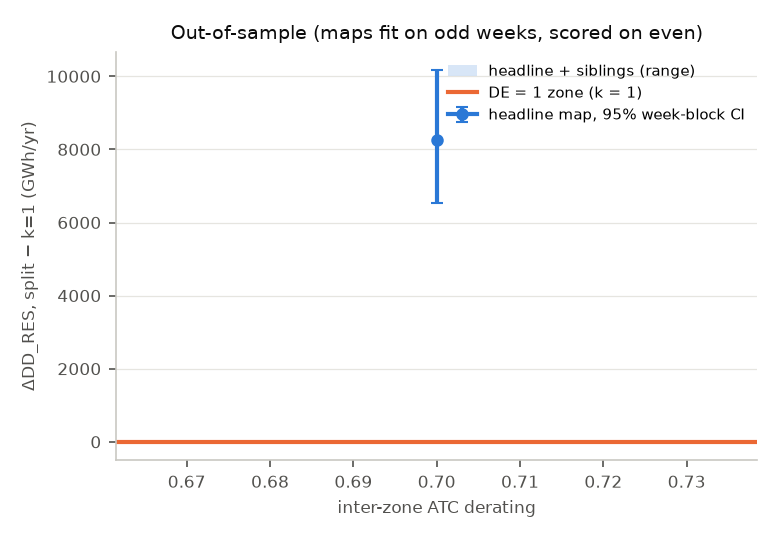
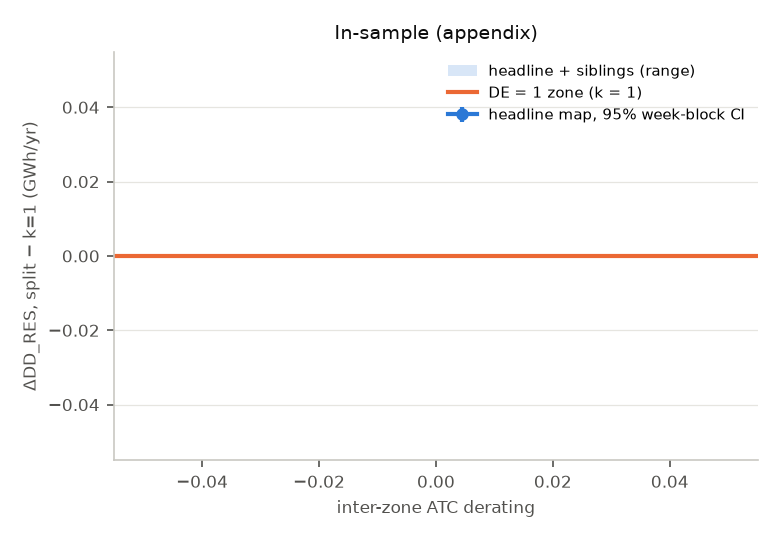
Validate scan: alpha x derating complete (200 representative hours)
Splitting DE reduces dispatch down only at derating 0.2 with alpha 2
(-1.4 TWh/yr) or 5 (-1.2), and for the alpha = 10 microzone map at 0.5
and 0.7. Everywhere else it increases DD by 0.4 to 8.5 TWh/yr.
Exploratory: in-sample maps, no bootstrap, one hour excluded at 0.5.

Claude-Session: https://claude.ai/code/session_01Xq5TRT6MZ78NDn6YnSkUQb

diff --git a/bidding_zones/reports/validate_rep200.md b/bidding_zones/reports/validate_rep200.md
@@ -5,7 +5,7 @@ Generated by `python -m bzgen.validate.run` on **200 representative hours (`rep2
 > ## Fallbacks and flags
 >
 > - **Development subsample** (200 k-means hours, weighted). The week-block bootstrap is not meaningful on weighted representative hours.
-> - **Stage A only**: no redispatch, so no dispatch-down result.
+> - **Net positions are soft, not fixed (quick-result fix; the brief asked for hard equalities and no relaxation).** With hard equalities most hours were LP-infeasible: the zonal market schedules exchanges the meshed grid cannot deliver even with load shedding. Deviation from a zone's market net position costs €1000/MWh (above every generator cost, below load shedding), so net positions hold wherever redispatch can deliver them. The undeliverable volume is reported (`np_slack_*`, `np_undeliverable_hours*`) and is itself a result: it measures how far the zonal market's exchanges exceed what the grid can carry.
 > - **Zone polygons are not an ENTSO-E publication.** No authoritative bidding-zone polygon set was reachable (transparency.entsoe.eu and entsoe.eu blocked by the session's egress policy). SE1–4, NO1–5, DK1–2 and six Italian zones come from Electricity Maps' curated open geometry (`geo/world.geojson`, commit `809539d5c76d`), hash in `data/PROVENANCE.md`.
 > - **Italy has 6 zones, not the 7 in force since 2021**: CALA (Calabria) is not in the geometry and sits inside IT-SUD, as in the brief.
 > - **Sibling tolerance widened** to 0.01 (from `sweep.degeneracy_rel_tol` = 0.001, at which DE has no near-degenerate restart). Siblings are re-run restarts (fixed crc32 seeds; the sweep's `hash()` seeds are not reproducible). Fewer than 3 siblings are reported as found, not padded.
@@ -25,20 +25,23 @@ No dispatch-down result in this run.
 
 1. **Zones.** DE-LU from the map under test (k = 1: one zone). SE, NO, DK, IT by real bidding zone (point-in-polygon; buses outside every polygon of their own country take the nearest one). Every other country is one zone.
 2. **Stage A — market.** Buses collapsed to zones. Generators and loads keep their identity. Inter-zone AC cuts become one Link per zone pair (`p_nom = derating · Σ s_nom · s_max_pu`, s_max_pu = 0.7). HVDC is kept as it is, and intra-zone lines are deleted. No KVL.
-3. **Stage B — redispatch.** The full nodal network with KVL. Each unit gets an up part (`mc + markup`) and a down part (`−mc + markup` per MWh backed down). The market schedule is a fixed injection. One equality per zone and hour holds the net position (Σ up = Σ down). Load shedding is available at €3000/MWh. No relaxation and no counter-trading.
+3. **Stage B — redispatch.** The full nodal network with KVL. Each unit gets an up part (`mc + markup`) and a down part (`−mc + markup` per MWh backed down). The market schedule is a fixed injection. One equality per zone and hour holds the net position (Σ up = Σ down). Net positions are soft in this run (flag above). Load shedding is available at €3000/MWh. No relaxation and no counter-trading.
 4. **Metrics** (DE-LU incl. offshore): DD_RES = market spill[RES] + redispatch down[RES]; DD_RES_TH adds thermal down-regulation. Attribution: market spill over binding zonal links (stage-A duals), redispatch down over binding nodal branches touching DE (stage-B duals), weighted by |μ| · capacity. Cost gap `(C_market + C_redispatch − C_nodal) / C_nodal` (physical costs, markup excluded).
 5. **Scoring.** Primary: maps refit on odd ISO weeks (edge statistics from `prices.parquet`, same anneal), with stages A and B scored on even weeks only. k = 1 needs no refit. Appendix: full-year maps scored on the full year. Paired by hour. The bootstrap resamples by ISO week (1000 resamples, 95%).
 6. **Same inputs as the benchmark**: the same snapshots, the same seeded cost noise (`anneal.seed`, U[0.001, 0.01) €/MWh) and the same worker/block parallelism. The nodal reference was re-solved; its prices differ from `data/solved/prices.parquet` by at most 2.44e-04 €/MWh.
 
 ## Maps under test
 
-| map         | role     | fit      |   energy | restart   |
-|:------------|:---------|:---------|---------:|:----------|
-| k1          | k1       | none     |  nan     |           |
-| is_headline | headline | insample | -759.226 |           |
-| is_sib1     | sibling  | insample | -757.577 | 1         |
-| is_sib2     | sibling  | insample | -754.665 | 2         |
-| is_sib3     | sibling  | insample | -752.879 | 4         |
+| map                      | role   | fit      |   energy | restart   |
+|:-------------------------|:-------|:---------|---------:|:----------|
+| k1                       | k1     | none     |      nan |           |
+| sw_a0.5_lc0.1_lb0.5_dk+0 | scan   | insample |      nan |           |
+| sw_a1_lc0.1_lb0.5_dk+0   | scan   | insample |      nan |           |
+| sw_a2_lc0.1_lb0.5_dk+0   | scan   | insample |      nan |           |
+| sw_a5_lc0.1_lb0.5_dk+0   | scan   | insample |      nan |           |
+| sw_a10_lc0.1_lb0.5_dk+0  | scan   | insample |      nan |           |
+
+ARI between the out-of-sample headline and the in-sample headline: 0.27.
 
 In-sample restarts (`results/validate/maps/is_restarts.csv`):
 
@@ -57,6 +60,22 @@ In-sample restarts (`results/validate/maps/is_restarts.csv`):
 |         5 | -733.581 |            0.0338 |            0.5195 | True         | False        | True       | False     |
 |         0 | -729.048 |            0.0397 |            0.0854 | True         | False        | True       | False     |
 
+Out-of-sample restarts (`results/validate/maps/oos_restarts.csv`):
+
+|   restart |   energy |   rel_gap_to_best |   ari_vs_headline | contiguous   | within_tol   | distinct   | sibling   |
+|----------:|---------:|------------------:|------------------:|:-------------|:-------------|:-----------|:----------|
+|         2 | -757.544 |            0.0005 |            0.4347 | True         | True         | True       | True      |
+|         5 | -755.918 |            0.0026 |            0.4973 | True         | True         | True       | True      |
+|         6 | -755.203 |            0.0036 |            0.2502 | True         | True         | True       | True      |
+|         8 | -750.086 |            0.0103 |            0.211  | True         | False        | True       | False     |
+|         7 | -743.58  |            0.0189 |            0.2643 | True         | False        | True       | False     |
+|         3 | -737.889 |            0.0264 |            0.0771 | True         | False        | True       | False     |
+|         9 | -736.702 |            0.028  |            0.1382 | True         | False        | True       | False     |
+|        11 | -735.047 |            0.0302 |            0.3674 | True         | False        | True       | False     |
+|        10 | -734.804 |            0.0305 |            0.2901 | True         | False        | True       | False     |
+|         0 | -734.225 |            0.0312 |            0.1234 | True         | False        | True       | False     |
+|         1 | -720.296 |            0.0496 |            0.1676 | True         | False        | True       | False     |
+
 Real foreign zones (bus counts):
 
 | country   |   buses |   in_polygon |   nearest_polygon |   max_nearest_km | zones                                                             |
@@ -68,47 +87,70 @@ Real foreign zones (bus counts):
 
 ## Results
 
-|                                  |   market_spill_res_GWh_allhours |   C_market_EUR_allhours |   C_nodal_EUR_allhours |
-|:---------------------------------|--------------------------------:|------------------------:|-----------------------:|
-| ('insample', 'k1', 0.2)          |                          1599.5 |             9.5709e+10  |            1.21396e+11 |
-| ('insample', 'is_headline', 0.2) |                          2511.7 |             9.5819e+10  |            1.21396e+11 |
-| ('insample', 'is_sib1', 0.2)     |                          3110.6 |             9.58452e+10 |            1.21396e+11 |
-| ('insample', 'is_sib2', 0.2)     |                          3793   |             9.59739e+10 |            1.21396e+11 |
-| ('insample', 'is_sib3', 0.2)     |                          2592.7 |             9.5885e+10  |            1.21396e+11 |
-| ('insample', 'k1', 0.5)          |                           352.3 |             7.23224e+10 |            1.21396e+11 |
-| ('insample', 'is_headline', 0.5) |                           352.3 |             7.23224e+10 |            1.21396e+11 |
-| ('insample', 'is_sib1', 0.5)     |                           372.3 |             7.23242e+10 |            1.21396e+11 |
-| ('insample', 'is_sib2', 0.5)     |                           350.2 |             7.2333e+10  |            1.21396e+11 |
-| ('insample', 'is_sib3', 0.5)     |                           352.3 |             7.23298e+10 |            1.21396e+11 |
-| ('insample', 'k1', 0.7)          |                            65.4 |             6.95123e+10 |            1.21396e+11 |
-| ('insample', 'is_headline', 0.7) |                            65.4 |             6.95123e+10 |            1.21396e+11 |
-| ('insample', 'is_sib1', 0.7)     |                            71.8 |             6.95124e+10 |            1.21396e+11 |
-| ('insample', 'is_sib2', 0.7)     |                            65.4 |             6.95123e+10 |            1.21396e+11 |
-| ('insample', 'is_sib3', 0.7)     |                            65.4 |             6.95123e+10 |            1.21396e+11 |
-| ('insample', 'k1', 1.0)          |                             0   |             6.67654e+10 |            1.21396e+11 |
-| ('insample', 'is_headline', 1.0) |                             0   |             6.67654e+10 |            1.21396e+11 |
-| ('insample', 'is_sib1', 1.0)     |                             0   |             6.67654e+10 |            1.21396e+11 |
-| ('insample', 'is_sib2', 1.0)     |                             0   |             6.67654e+10 |            1.21396e+11 |
-| ('insample', 'is_sib3', 1.0)     |                             0   |             6.67654e+10 |            1.21396e+11 |
-| ('oos_even', 'k1', 0.2)          |                           294.5 |             9.18705e+10 |            1.13431e+11 |
-| ('oos_even', 'k1', 0.5)          |                             0   |             6.89629e+10 |            1.13431e+11 |
-| ('oos_even', 'k1', 0.7)          |                             0   |             6.61126e+10 |            1.13431e+11 |
-| ('oos_even', 'k1', 1.0)          |                             0   |             6.32089e+10 |            1.13431e+11 |
+All of `results/validate.csv`, abridged (GWh/yr, M€/yr; shed energy is reported separately and never counted as dispatch down):
+
+|                                               |   DD_RES_GWh |   DD_RES_TH_GWh |   DD_share_of_avail_res |   internal_share |   border_share |   C_redispatch_MEUR |   C_total_MEUR |   efficiency_gap |   lp_infeasible_hours |   np_undeliverable_hours |   np_slack_focus_GWh |   shed_hours_excl_pockets |   shed_focus_GWh |   shed_pocket_GWh |   dDD_RES_GWh |   dDD_RES_lo |   dDD_RES_hi |
+|:----------------------------------------------|-------------:|----------------:|------------------------:|-----------------:|---------------:|--------------------:|---------------:|-----------------:|----------------------:|-------------------------:|---------------------:|--------------------------:|-----------------:|------------------:|--------------:|-------------:|-------------:|
+| ('insample', 'k1', 0.2)                       |      15956.9 |         41991.5 |                   0.069 |            0.631 |          0.369 |             36763.8 |         132473 |            0.091 |                     0 |                      111 |               -0     |                       133 |          7014.46 |           9684.48 |       nan     |      nan     |      nan     |
+| ('insample', 'sw_a0.5_lc0.1_lb0.5_dk+0', 0.2) |      16313.1 |         46257.7 |                   0.071 |            0.617 |          0.383 |             37091.3 |         132806 |            0.094 |                     0 |                      111 |                0     |                       133 |          7014.46 |           9684.53 |       356.178 |       28.999 |      707.791 |
+| ('insample', 'sw_a1_lc0.1_lb0.5_dk+0', 0.2)   |      16527.5 |         44576.6 |                   0.072 |            0.609 |          0.391 |             36921.2 |         132634 |            0.093 |                     0 |                      111 |                0     |                       133 |          7014.46 |           9684.57 |       570.534 |      248.608 |      968.355 |
+| ('insample', 'sw_a2_lc0.1_lb0.5_dk+0', 0.2)   |      14523.2 |         46456.5 |                   0.063 |            0.504 |          0.496 |             36728.8 |         132548 |            0.092 |                     0 |                      111 |                9.104 |                       133 |          7014.46 |           9684.77 |     -1433.76  |    -2649.86  |     -482.372 |
+| ('insample', 'sw_a5_lc0.1_lb0.5_dk+0', 0.2)   |      14770.1 |         42051.4 |                   0.064 |            0.427 |          0.573 |             36475.5 |         132331 |            0.09  |                     0 |                      111 |                7.848 |                       133 |          7014.46 |           9684.47 |     -1186.86  |    -2297     |     -184.078 |
+| ('insample', 'sw_a10_lc0.1_lb0.5_dk+0', 0.2)  |      16297.3 |         42880.1 |                   0.071 |            0.576 |          0.424 |             36749.8 |         132849 |            0.094 |                     0 |                      110 |               -0     |                       133 |          7014.46 |           9684.24 |       340.359 |      138.849 |      549.276 |
+| ('insample', 'k1', 0.5)                       |      24056.8 |         83259.8 |                   0.104 |            0.404 |          0.596 |             59524.7 |         131847 |            0.086 |                     0 |                      176 |               25.831 |                       171 |          7079.55 |           9770.29 |       nan     |      nan     |      nan     |
+| ('insample', 'sw_a0.5_lc0.1_lb0.5_dk+0', 0.5) |      28099.1 |         97957.4 |                   0.122 |            0.407 |          0.593 |             60907.3 |         133137 |            0.099 |                     1 |                      175 |              330.563 |                       163 |          7125.4  |           9760.54 |      3997.74  |     2960.33  |     5213.69  |
+| ('insample', 'sw_a1_lc0.1_lb0.5_dk+0', 0.5)   |      27203.9 |         96981.8 |                   0.118 |            0.374 |          0.626 |             60203.1 |         132432 |            0.093 |                     1 |                      175 |              239.134 |                       162 |          7083.69 |           9758.71 |      3102.5   |     2286.7   |     3994.74  |
+| ('insample', 'sw_a2_lc0.1_lb0.5_dk+0', 0.5)   |      31218.9 |        105519   |                   0.135 |            0.427 |          0.573 |             61670.8 |         133900 |            0.106 |                     1 |                      178 |              338.627 |                       165 |          7153.72 |           9739.77 |      7117.58  |     4762.92  |    10009.4   |
+| ('insample', 'sw_a5_lc0.1_lb0.5_dk+0', 0.5)   |      27719.4 |         99446.2 |                   0.12  |            0.4   |          0.6   |             60891.6 |         133121 |            0.099 |                     1 |                      176 |              188.176 |                       166 |          7137.97 |           9760.35 |      3618.07  |     2122.5   |     5438.92  |
+| ('insample', 'sw_a10_lc0.1_lb0.5_dk+0', 0.5)  |      23061.1 |         70574.6 |                   0.1   |            0.432 |          0.568 |             56437   |         129292 |            0.068 |                     1 |                      145 |              103.145 |                       136 |          7033.25 |           9715.47 |     -1040.21  |    -1536.1   |     -505.399 |
+| ('insample', 'k1', 0.7)                       |      37459.5 |        112545   |                   0.163 |            0.232 |          0.768 |             69804   |         139316 |            0.148 |                     0 |                      199 |              879.047 |                       177 |          7262.39 |           9875.48 |       nan     |      nan     |      nan     |
+| ('insample', 'sw_a0.5_lc0.1_lb0.5_dk+0', 0.7) |      43832.5 |        129740   |                   0.19  |            0.252 |          0.748 |             72931.9 |         142444 |            0.173 |                     0 |                      199 |             3703.26  |                       183 |          7632.51 |           9892.06 |      6373.04  |     4751.31  |     8237.68  |
+| ('insample', 'sw_a1_lc0.1_lb0.5_dk+0', 0.7)   |      42207   |        126885   |                   0.183 |            0.22  |          0.78  |             71779   |         141291 |            0.164 |                     0 |                      199 |             3474.31  |                       181 |          7463.9  |           9885.55 |      4747.48  |     3561.26  |     6102.4   |
+| ('insample', 'sw_a2_lc0.1_lb0.5_dk+0', 0.7)   |      45984.2 |        134967   |                   0.2   |            0.3   |          0.7   |             73043.9 |         142556 |            0.174 |                     0 |                      199 |             2908.25  |                       181 |          7722.26 |           9840.25 |      8524.74  |     5789.22  |    11586.6   |
+| ('insample', 'sw_a5_lc0.1_lb0.5_dk+0', 0.7)   |      45413.9 |        129373   |                   0.197 |            0.219 |          0.781 |             71847.3 |         141360 |            0.164 |                     0 |                      199 |             2368.71  |                       180 |          7364.75 |           9876.65 |      7954.4   |     6376.2   |     9765.75  |
+| ('insample', 'sw_a10_lc0.1_lb0.5_dk+0', 0.7)  |      37241.7 |        111009   |                   0.162 |            0.241 |          0.759 |             69837.5 |         139608 |            0.15  |                     0 |                      199 |              975.088 |                       175 |          7217.93 |           9859.95 |      -217.753 |     -861.93  |      415.178 |
+| ('insample', 'k1', 1.0)                       |      38438.3 |        112354   |                   0.167 |            0.218 |          0.782 |             72523.4 |         139289 |            0.147 |                     0 |                      200 |             3474.36  |                       178 |          7226.3  |           9842.12 |       nan     |      nan     |      nan     |
+| ('insample', 'sw_a0.5_lc0.1_lb0.5_dk+0', 1.0) |      44139.4 |        127495   |                   0.192 |            0.219 |          0.781 |             75104.6 |         141870 |            0.169 |                     0 |                      200 |            12332.5   |                       183 |          7428.56 |           9852.75 |      5701.12  |     3928.6   |     7748.69  |
+| ('insample', 'sw_a1_lc0.1_lb0.5_dk+0', 1.0)   |      41181.3 |        122669   |                   0.179 |            0.199 |          0.801 |             73949.9 |         140715 |            0.159 |                     0 |                      200 |            11578     |                       179 |          7350.16 |           9857.09 |      2743.04  |     1568.21  |     4019.2   |
+| ('insample', 'sw_a2_lc0.1_lb0.5_dk+0', 1.0)   |      44439.4 |        131553   |                   0.193 |            0.25  |          0.75  |             75000.5 |         141766 |            0.168 |                     0 |                      200 |            10515     |                       181 |          7560.53 |           9823.64 |      6001.15  |     3528.7   |     8566.28  |
+| ('insample', 'sw_a5_lc0.1_lb0.5_dk+0', 1.0)   |      44033.8 |        126107   |                   0.191 |            0.205 |          0.795 |             74074.1 |         140839 |            0.16  |                     0 |                      200 |             7250.37  |                       182 |          7291.12 |           9838.43 |      5595.53  |     4320.65  |     7032.53  |
+| ('insample', 'sw_a10_lc0.1_lb0.5_dk+0', 1.0)  |      38615.7 |        111758   |                   0.168 |            0.211 |          0.789 |             72547.5 |         139320 |            0.148 |                     0 |                      200 |             3652.18  |                       176 |          7207.77 |           9838.11 |       177.415 |     -186.223 |      554.019 |
+
+![ΔDD versus derating](../figures/validate/delta_dd_vs_derating.png)
+
+![attribution](../figures/validate/attribution.png)
+
+![duration](../figures/validate/dd_duration.png)
+
+![map](../figures/validate/dd_map_de.png)
+
+_map figure failed: KeyError('is_headline')_
+
+### k = 1 redispatch volume versus BNetzA
+
+| derating   | redispatch_up_focus_GWh   | redispatch_down_focus_GWh   | DD_RES_GWh   | up_plus_down_TWh   |
+|------------|---------------------------|-----------------------------|--------------|--------------------|
+
+Reference: 20–30 TWh/yr (unsourced, from the brief). Nothing is tuned to match it. A large gap is expected from the 220 kV truncation (no 110 kV grid, load pockets) and from the idealised market (one perfect ATC auction, perfect redispatch).
 
 ## Validity checks
 
 Asserted: `C_market ≤ C_nodal` every hour at derating 1 (the zonal model is a relaxation only there; at lower deratings the ATC is below what the physical cut carries, so violations are reported, not asserted); `C_market(k=1) ≤ C_market(split)` every hour; `C_market + C_redispatch ≥ C_nodal` every feasible hour. Tolerance 1e-06·|C| + €10.
 
-|                                                 |   runs |   hours |   violations |   max_excess_EUR |
-|:------------------------------------------------|-------:|--------:|-------------:|-----------------:|
-| ('C_market <= C_nodal', 0.2, False)             |      6 |    1079 |          144 |      1.86922e+06 |
-| ('C_market <= C_nodal', 0.5, False)             |      6 |    1079 |            6 |   6091.31        |
-| ('C_market <= C_nodal', 0.7, False)             |      6 |    1079 |            0 | -41493.9         |
-| ('C_market <= C_nodal', 1.0, True)              |      6 |    1079 |            0 | -95643.7         |
-| ('C_market(k=1) <= C_market(split)', 0.2, True) |      4 |     800 |            0 |      0           |
-| ('C_market(k=1) <= C_market(split)', 0.5, True) |      4 |     800 |            0 |      0           |
-| ('C_market(k=1) <= C_market(split)', 0.7, True) |      4 |     800 |            0 |      0           |
-| ('C_market(k=1) <= C_market(split)', 1.0, True) |      4 |     800 |            0 |      0           |
+|                                                   |   runs |   hours |   violations |    max_excess_EUR |
+|:--------------------------------------------------|-------:|--------:|-------------:|------------------:|
+| ('C_market + C_redispatch >= C_nodal', 0.2, True) |      6 |    1200 |            0 | -188597           |
+| ('C_market + C_redispatch >= C_nodal', 0.5, True) |      6 |    1195 |            0 |  -50486.4         |
+| ('C_market + C_redispatch >= C_nodal', 0.7, True) |      6 |    1200 |            0 | -268148           |
+| ('C_market + C_redispatch >= C_nodal', 1.0, True) |      6 |    1200 |            0 | -352666           |
+| ('C_market <= C_nodal', 0.2, False)               |      6 |    1200 |          158 |       1.93055e+06 |
+| ('C_market <= C_nodal', 0.5, False)               |      6 |    1200 |            8 |   32322.2         |
+| ('C_market <= C_nodal', 0.7, False)               |      6 |    1200 |            0 |  -41493.9         |
+| ('C_market <= C_nodal', 1.0, True)                |      6 |    1200 |            0 |  -95643.7         |
+| ('C_market(k=1) <= C_market(split)', 0.2, True)   |      5 |    1000 |            0 |       0           |
+| ('C_market(k=1) <= C_market(split)', 0.5, True)   |      5 |    1000 |            0 |       0           |
+| ('C_market(k=1) <= C_market(split)', 0.7, True)   |      5 |    1000 |            0 |       0           |
+| ('C_market(k=1) <= C_market(split)', 1.0, True)   |      5 |    1000 |            0 |       0           |
 
 **All asserted checks pass.**
 
